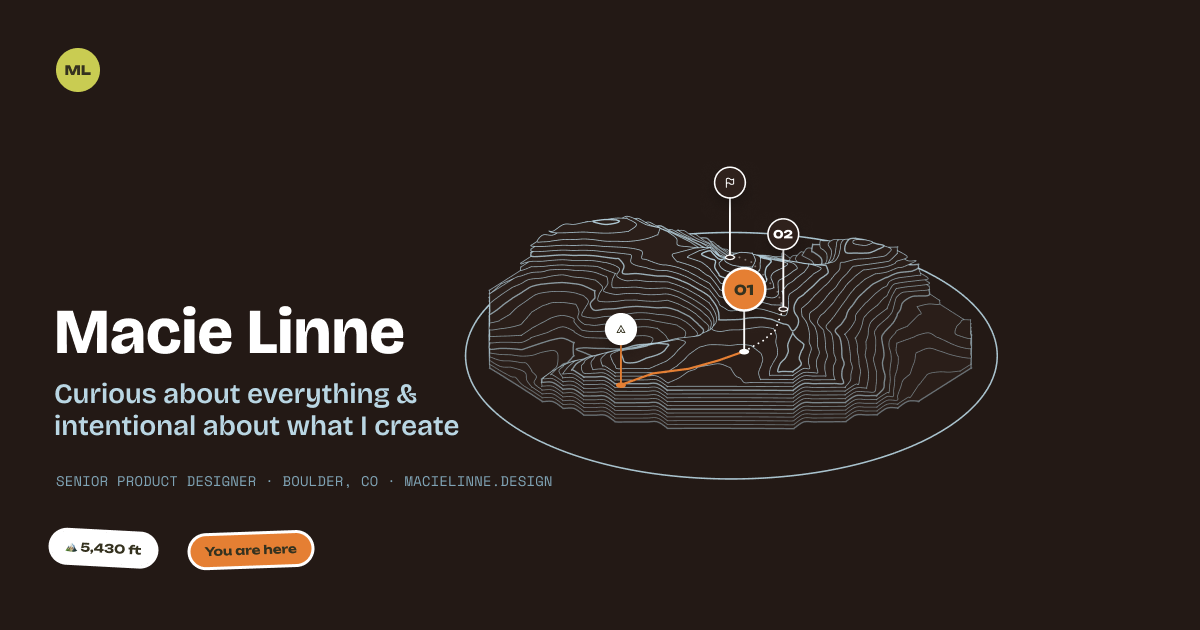
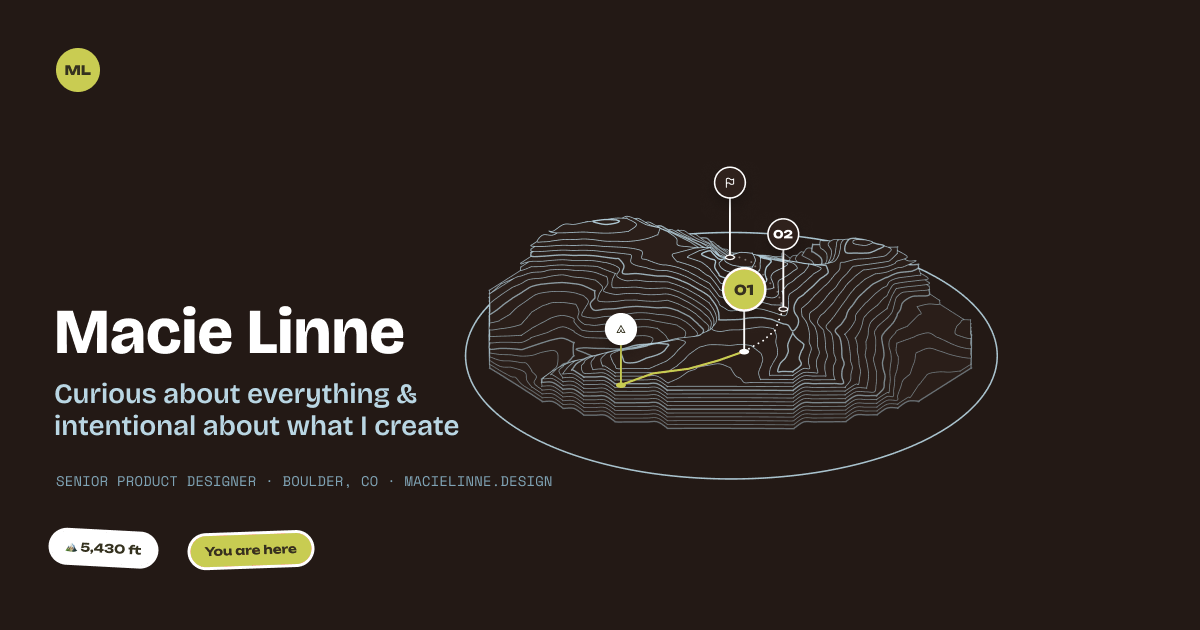
Palette: retire orange site-wide; chartreuse is the accent (green · brown · blue · white)
- --ml-orange-500 now aliases --ml-chartreuse-400, so the loading screen,
  404, Work index, case studies, About and the AI drawer all switch with no
  per-component changes
- Recoloured the baked-in orange 'you are here' dot in the About contour
  badges and the share image (og.png). Accio3D / RBA badges keep their brand
  colours.

Claude-Session: https://claude.ai/code/session_01WK7ZBen1Vf34QoaggwBaDv

Changed region(s): [[0.1542, 0.8444, 0.2775, 0.9048], [0.5858, 0.4222, 0.6475, 0.4825], [0.5242, 0.573, 0.5858, 0.6032]]

diff --git a/src/styles/ml-tokens.css b/src/styles/ml-tokens.css
@@ -35,7 +35,10 @@
   --ml-cocoa-900: #231915;  /* night · dark page background */
   --ml-ink-900: #35321F;    /* ink · body text on light */
   --ml-ink-600: #6A6650;    /* mute · secondary text on light */
-  --ml-orange-500: #E57F33; /* orange · route completed, active pin, accents */
+  /* Accent: the palette is green · brown · blue · white. Orange was retired —
+     --ml-orange-500 is kept as an alias so existing components pick up the
+     accent (chartreuse) without a rename. */
+  --ml-orange-500: var(--ml-chartreuse-400);
   --ml-chartreuse-400: #C9CC52; /* chartreuse · focus ring, stickers, ML mark */
   --ml-green-700: #3C4F2C;  /* dark green · accent band, patches */
   --ml-paper-100: #F4F6F7;  /* paper · cards inside drawer */
